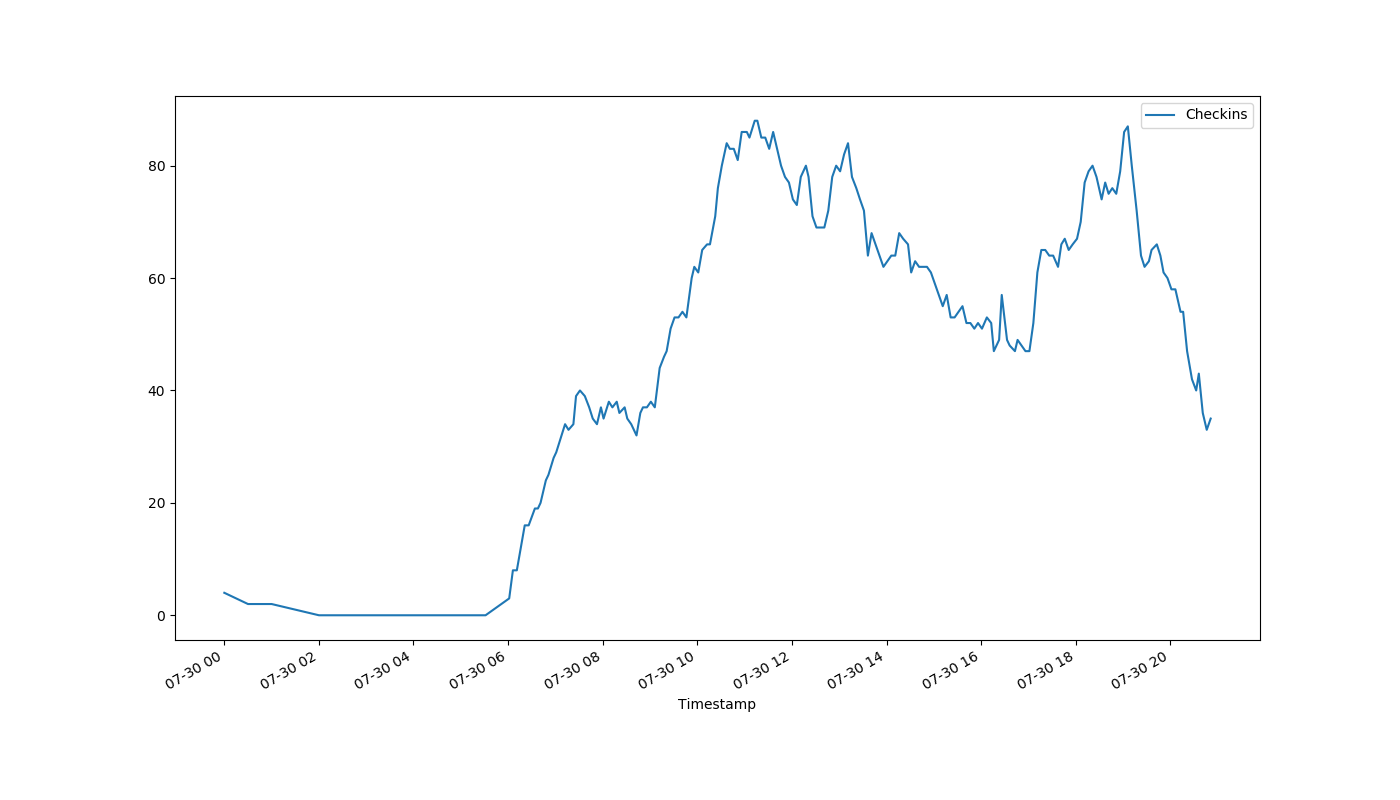
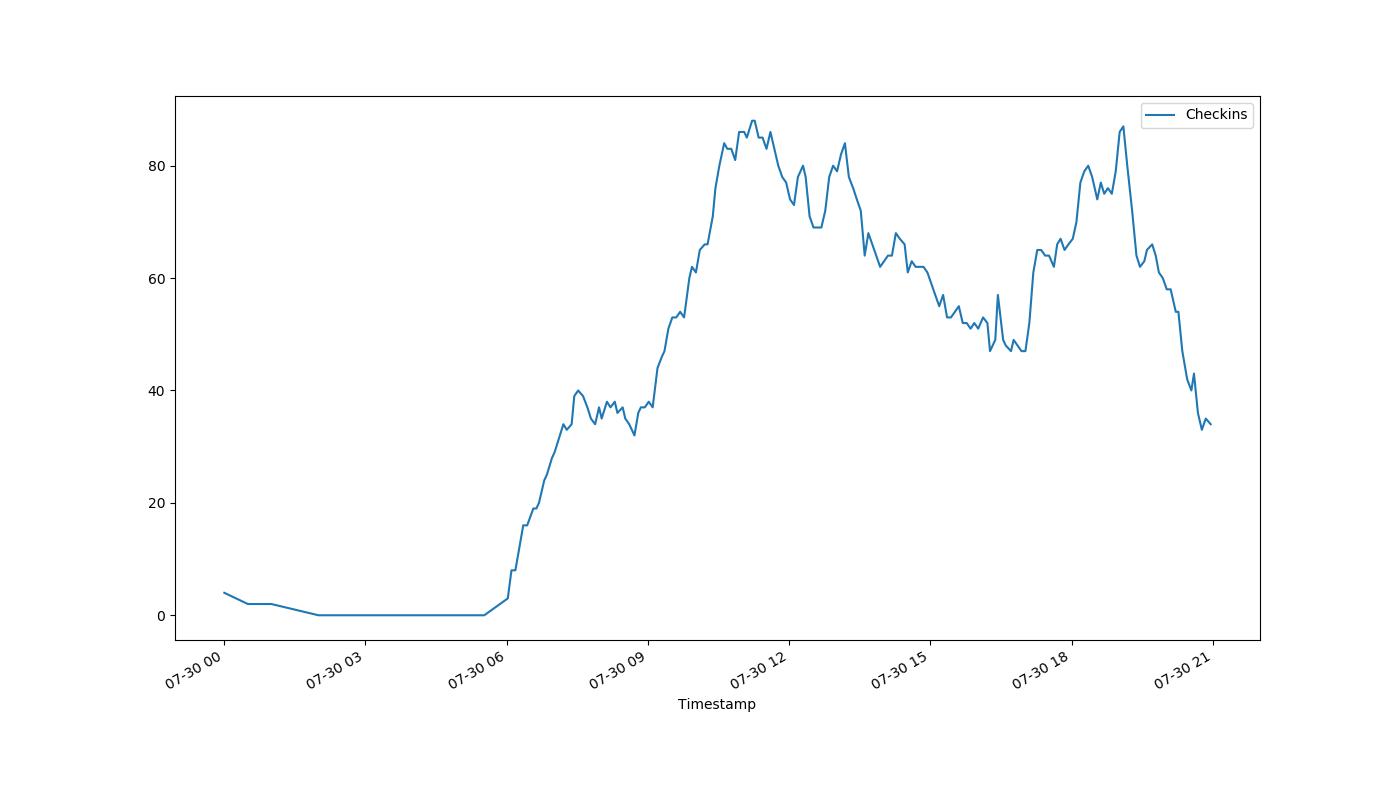
auto-Jul-30-20:59:00

diff --git a/index.html b/index.html
@@ -1,1 +1,1 @@
-<!DOCTYPE html><html><head><meta http-equiv="refresh" content="30"><link rel='stylesheet' href='holmcurrent.css'></head><body><p id='count'>35</p><div id='graph-wrap'><img id='graph' src='holmgraph-Jul-30.png'></div><p id='updated'>Last updated 20:51:14 / 20:51:04</p></body></html>
+<!DOCTYPE html><html><head><meta http-equiv="refresh" content="30"><link rel='stylesheet' href='holmcurrent.css'></head><body><p id='count'>34</p><div id='graph-wrap'><img id='graph' src='holmgraph-Jul-30.png'></div><p id='updated'>Last updated 20:58:15 / 20:57:19</p></body></html>
